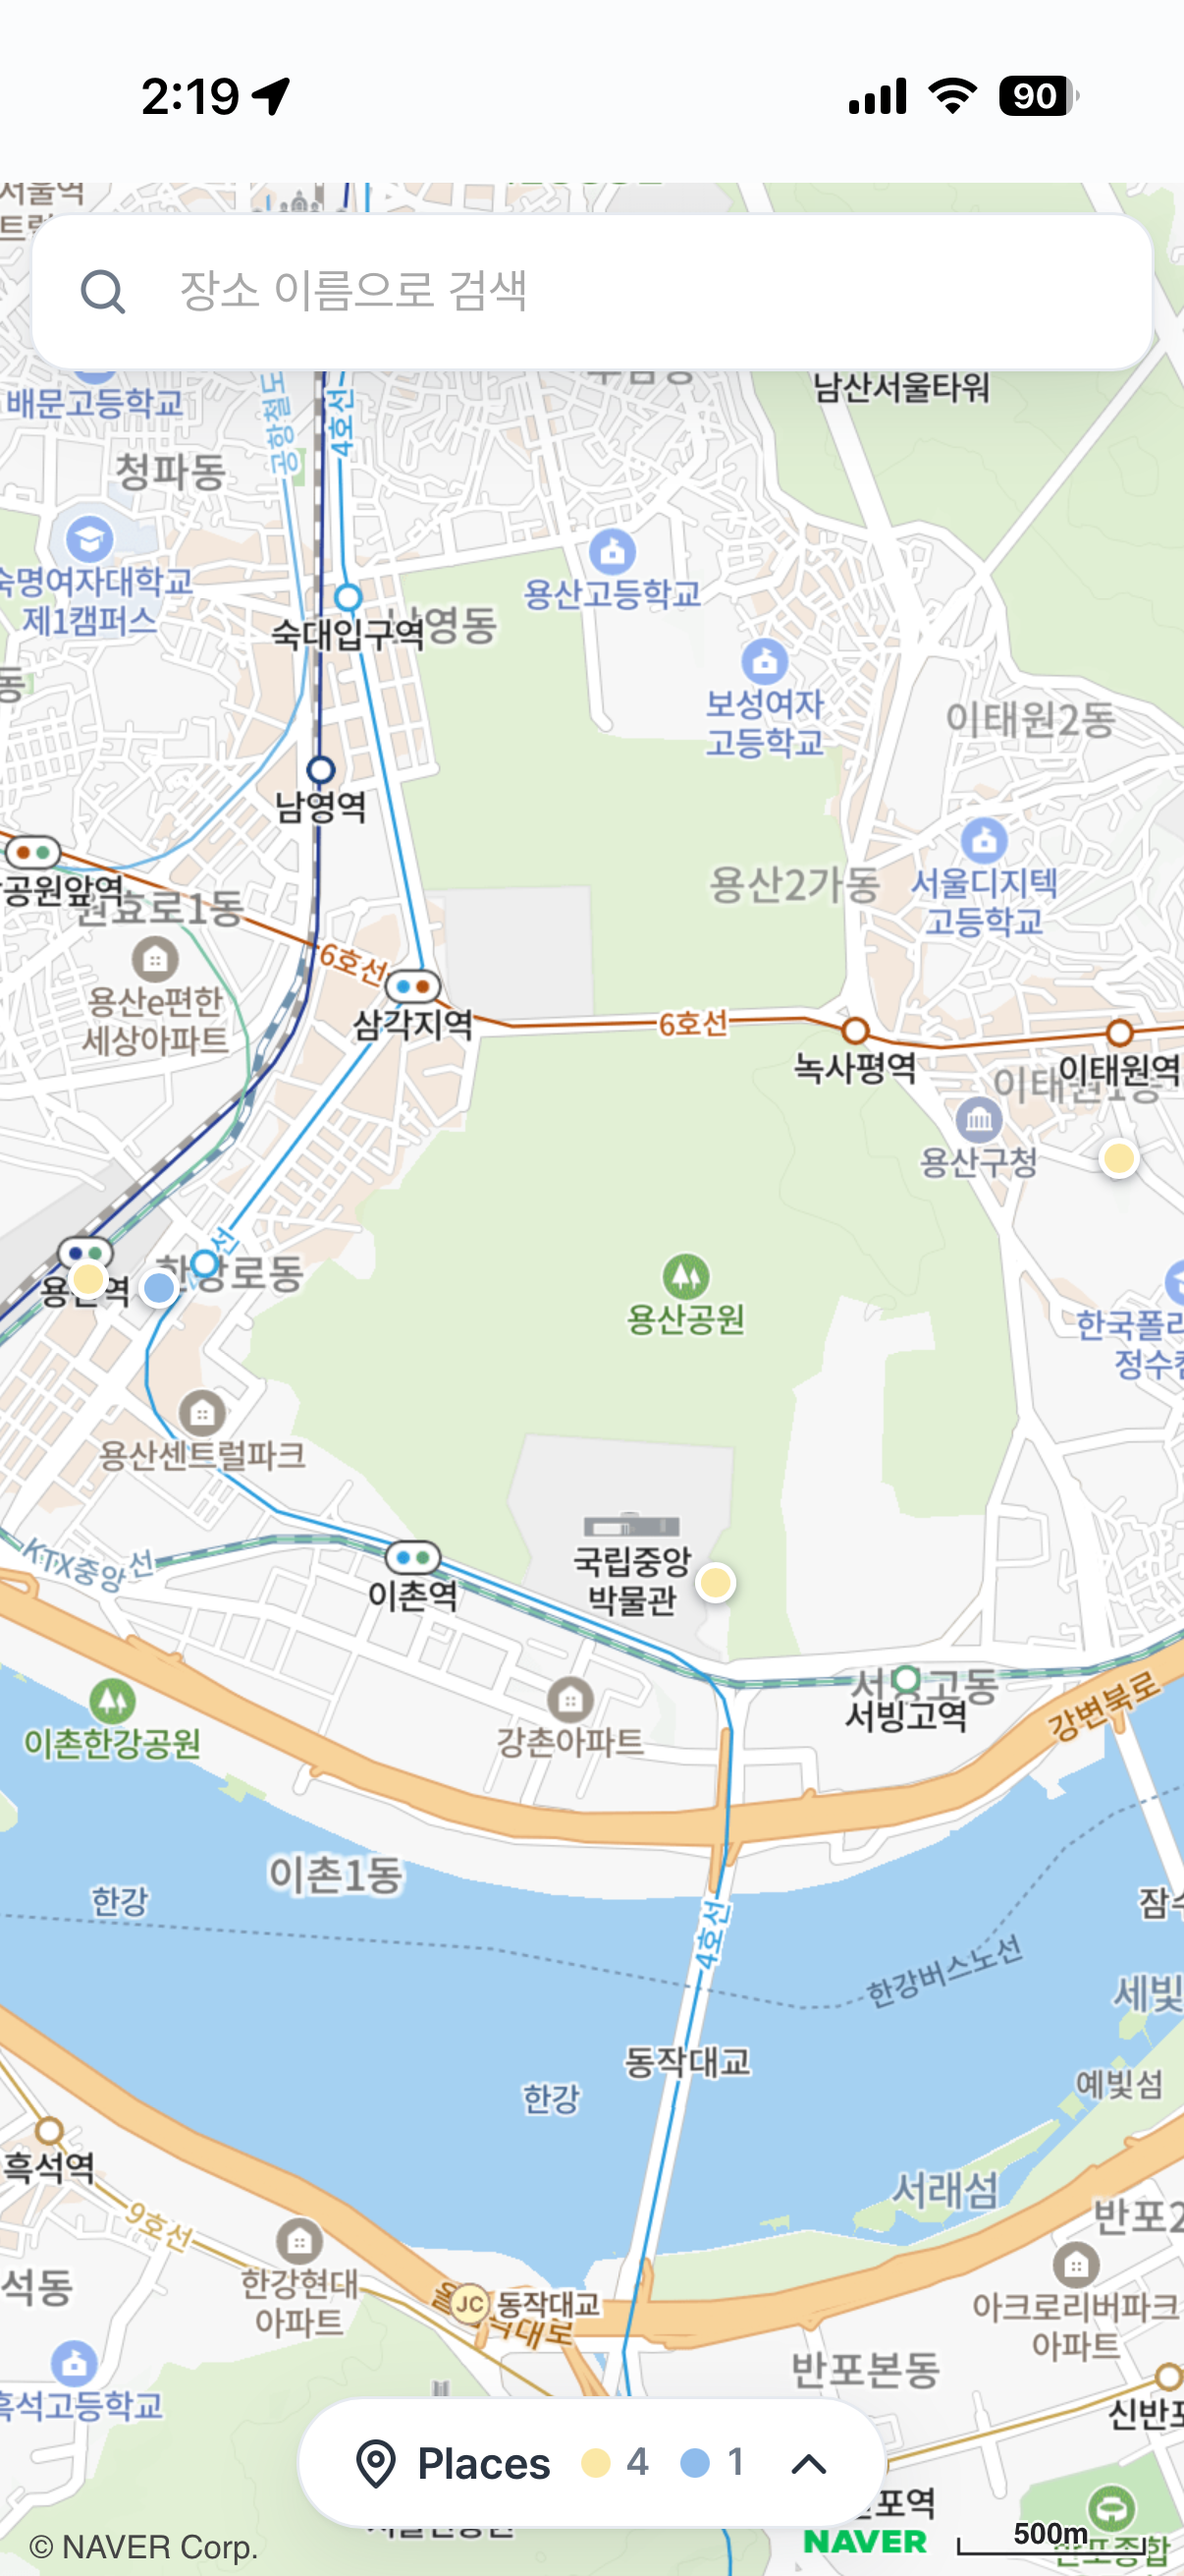
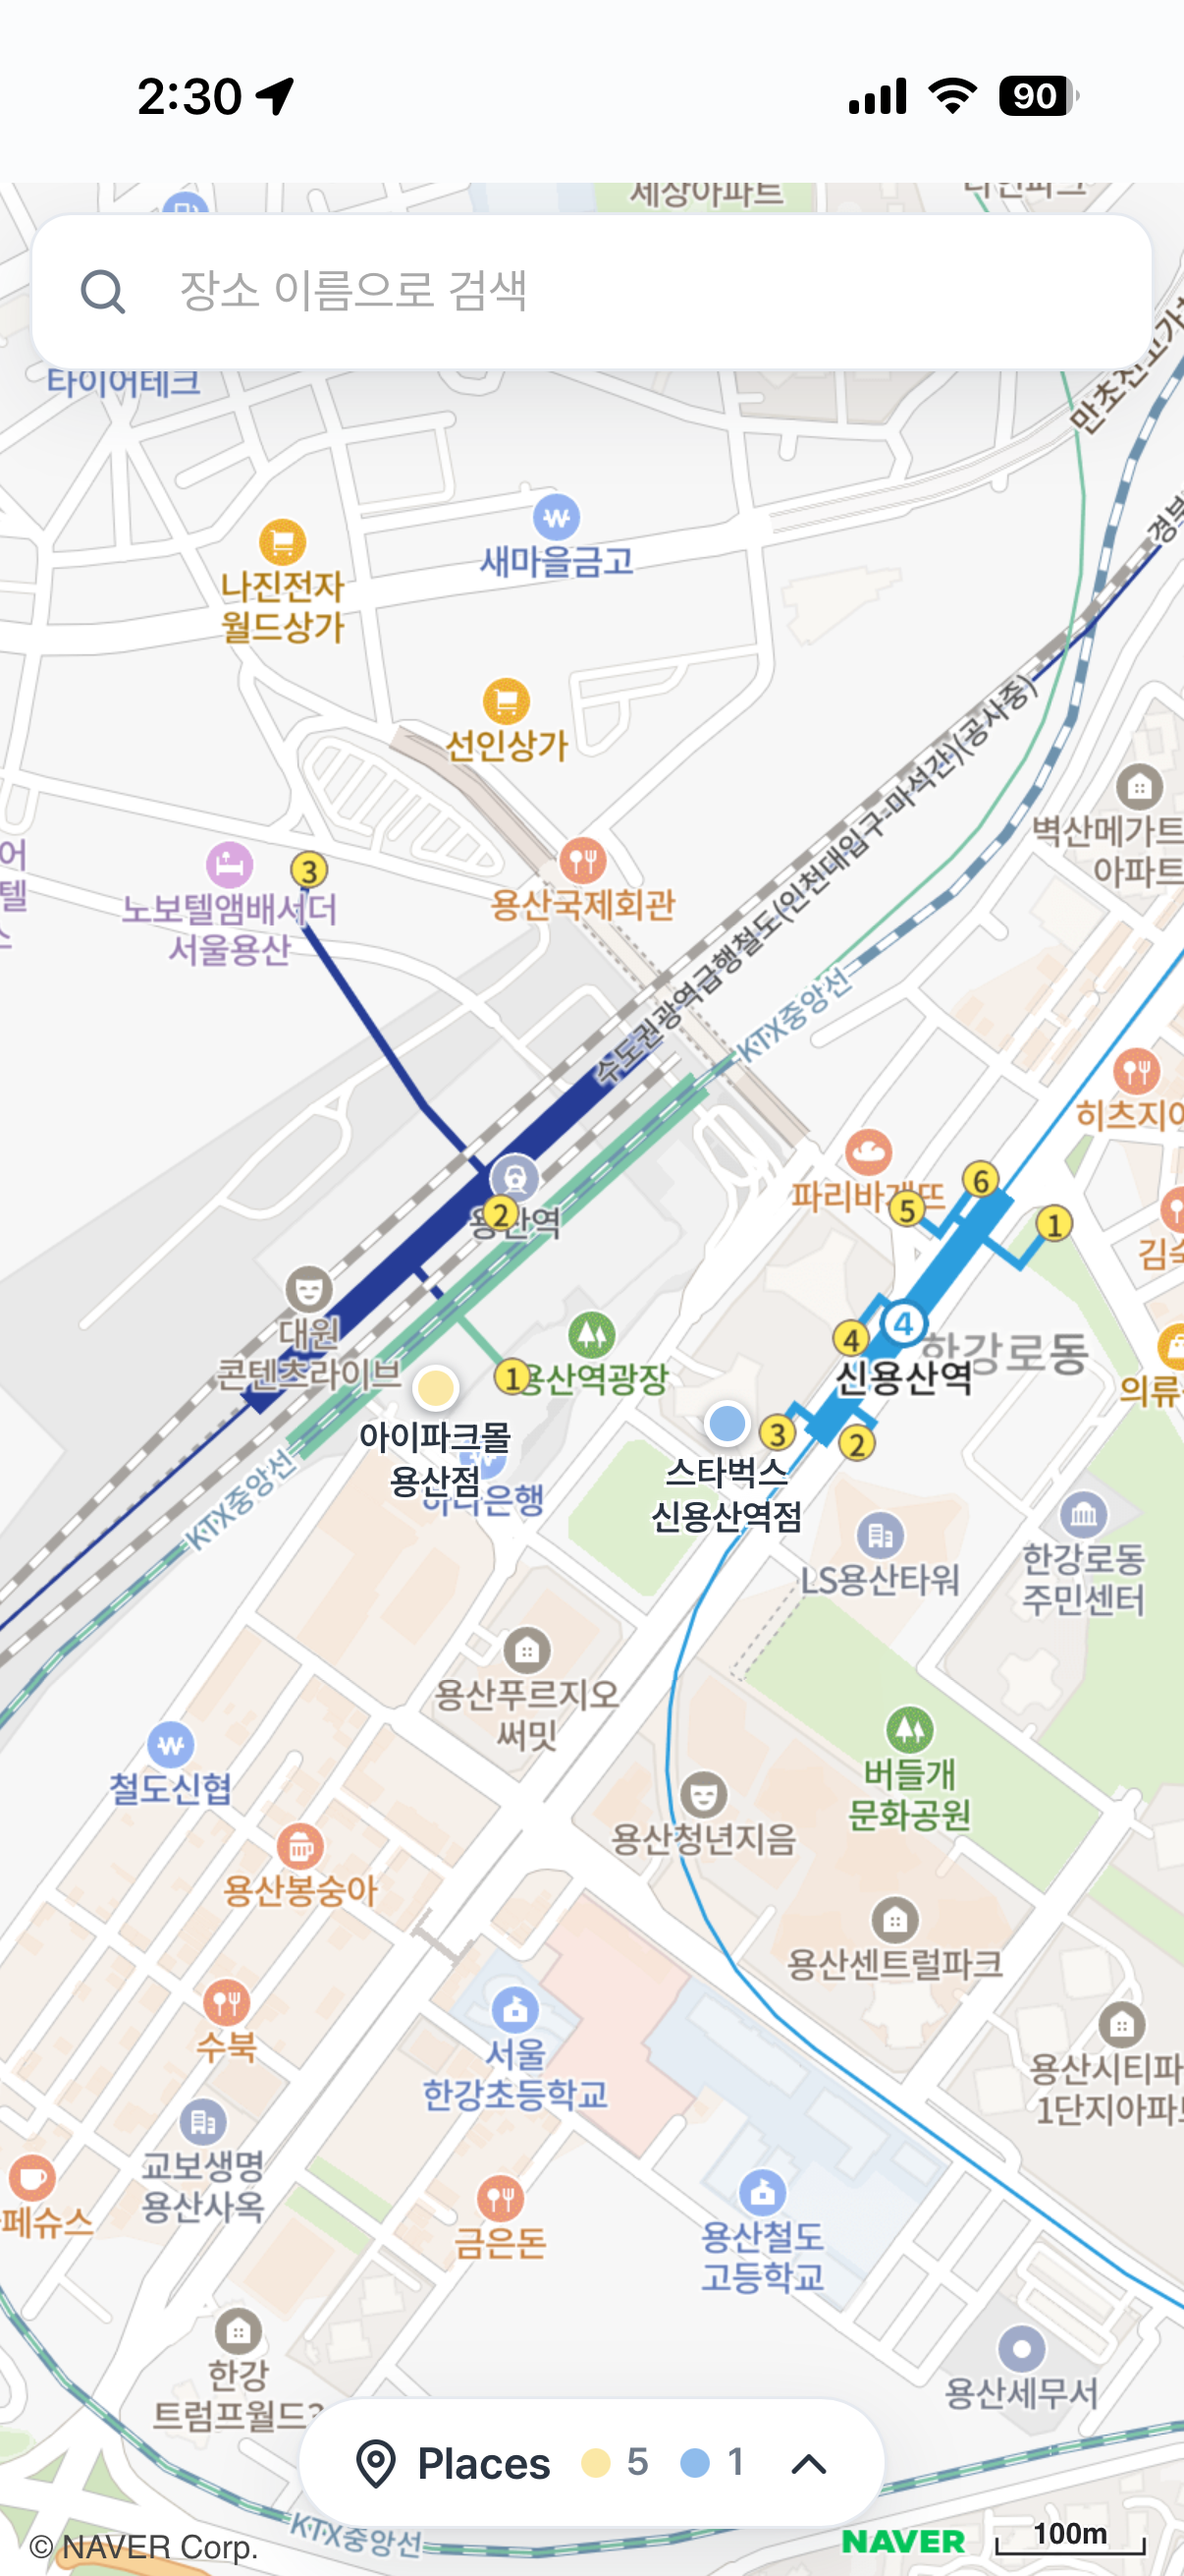
README 캡처 갱신
- 지도 캡처를 새 화면으로 교체
- 목록 캡처를 초대 코드를 가린 이미지로 교체 (04-list.jpg)
- README 이미지 링크 갱신

diff --git a/README.md b/README.md
@@ -10,7 +10,7 @@
   <img src="docs/screenshots/03-search.png" alt="장소 검색 결과" width="200">
 </p>
 <p>
-  <img src="docs/screenshots/04-list.png" alt="별점 높은순으로 정렬한 저장 목록: 상태, 별점, 대화" width="200">
+  <img src="docs/screenshots/04-list.jpg" alt="별점 높은순으로 정렬한 저장 목록: 상태, 별점, 대화" width="200">
   <img src="docs/screenshots/05-chat.png" alt="장소별 대화 말풍선" width="200">
 </p>
 
